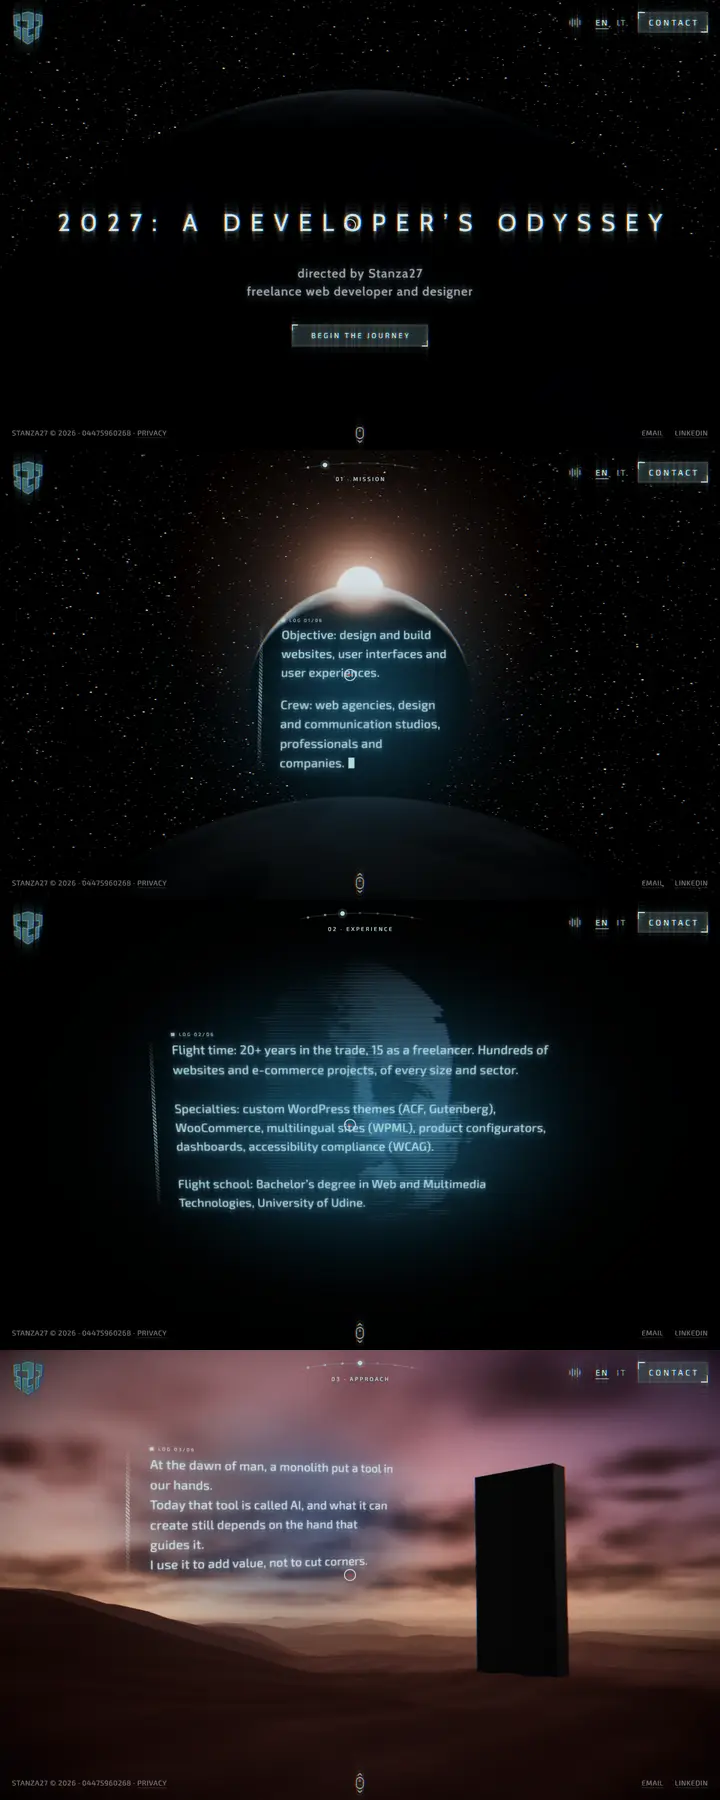
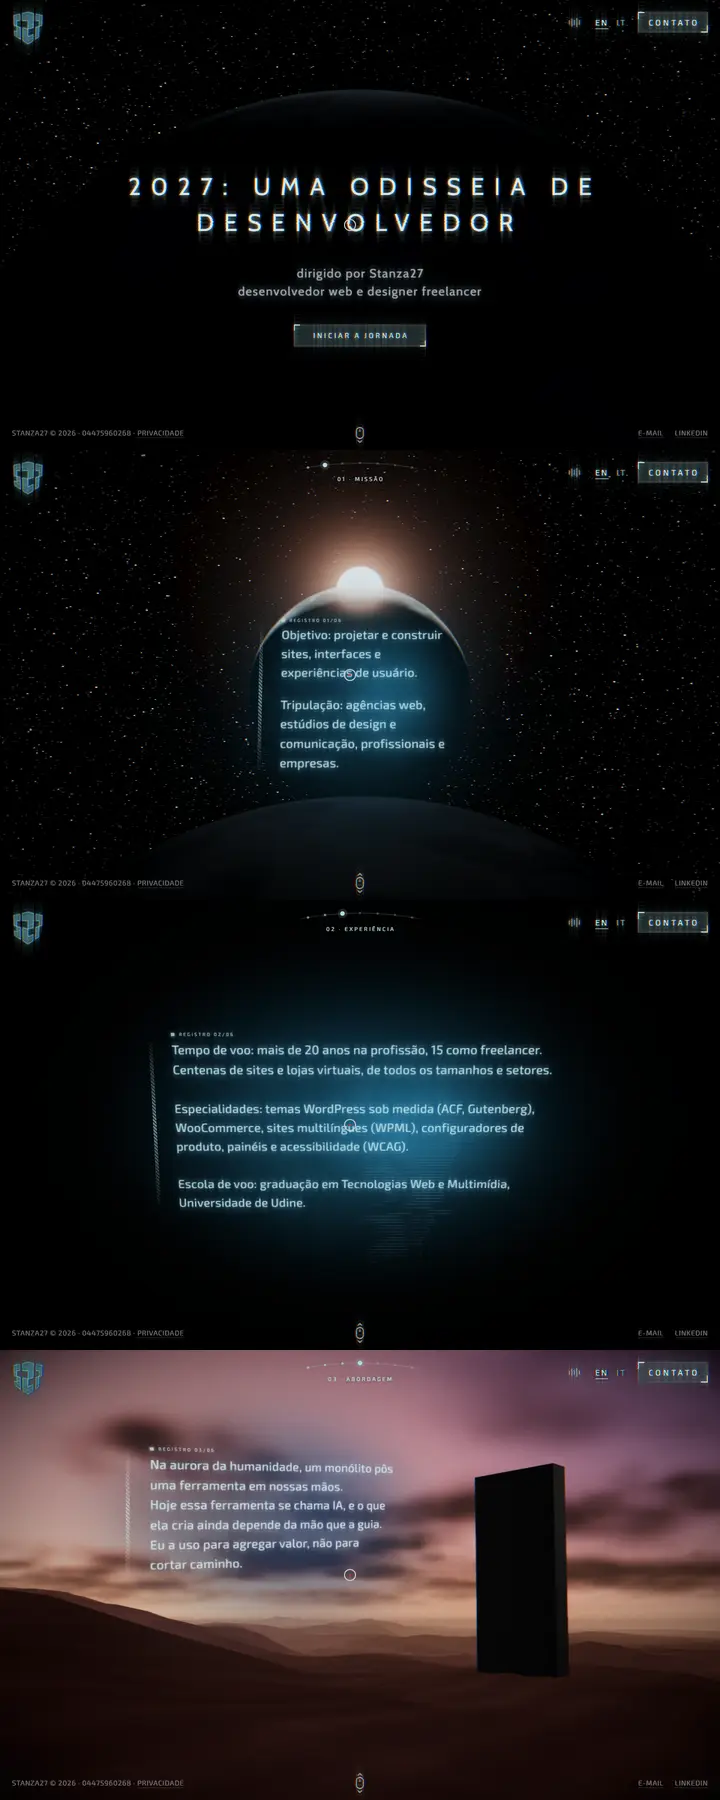
Telas do portfólio traduzidas para o português

diff --git a/portfolio/index.html b/portfolio/index.html
@@ -120,37 +120,37 @@
     <div class="grade">
       <a class="proj" data-rolar style="--alt:0px" href="https://mont-fort.com/" target="_blank" rel="noopener" data-r="entra">
         <div class="proj__barra"><i></i><i></i><i></i><span>mont-fort.com</span></div>
-        <div class="proj__tela"><img src="../assets/img/port-montfort.webp" alt="Página do Montfort Group" loading="lazy" width="720" height="1800"><span class="proj__ver">Ver projeto</span></div>
+        <div class="proj__tela"><img src="../assets/img/port-montfort.webp?v=pt" alt="Página do Montfort Group" loading="lazy" width="720" height="1800"><span class="proj__ver">Ver projeto</span></div>
         <div class="proj__info"><b>Montfort Group</b><small>Commodities e energia · Genebra</small></div>
       </a>
       <a class="proj" data-rolar style="--alt:0px" href="https://sereinwealth.com/" target="_blank" rel="noopener" data-r="entra" data-d="120">
         <div class="proj__barra"><i></i><i></i><i></i><span>sereinwealth.com</span></div>
-        <div class="proj__tela"><img src="../assets/img/port-serein.webp" alt="Página da Serein Wealth Advisors" loading="lazy" width="720" height="1800"><span class="proj__ver">Ver projeto</span></div>
+        <div class="proj__tela"><img src="../assets/img/port-serein.webp?v=pt" alt="Página da Serein Wealth Advisors" loading="lazy" width="720" height="1800"><span class="proj__ver">Ver projeto</span></div>
         <div class="proj__info"><b>Serein Wealth</b><small>Gestão de patrimônio</small></div>
       </a>
       <a class="proj" data-rolar style="--alt:0px" href="https://www.tibdigital.com/" target="_blank" rel="noopener" data-r="entra" data-d="240">
         <div class="proj__barra"><i></i><i></i><i></i><span>tibdigital.com</span></div>
-        <div class="proj__tela"><img src="../assets/img/port-tib.webp" alt="Página da TIB Digital" loading="lazy" width="720" height="1800"><span class="proj__ver">Ver projeto</span></div>
+        <div class="proj__tela"><img src="../assets/img/port-tib.webp?v=pt" alt="Página da TIB Digital" loading="lazy" width="720" height="1800"><span class="proj__ver">Ver projeto</span></div>
         <div class="proj__info"><b>TIB Digital</b><small>Estúdio de software com IA · Austin e Hong Kong</small></div>
       </a>
       <a class="proj" data-rolar style="--alt:0px" href="https://marylgonzalez.com/" target="_blank" rel="noopener" data-r="entra">
         <div class="proj__barra"><i></i><i></i><i></i><span>marylgonzalez.com</span></div>
-        <div class="proj__tela"><img src="../assets/img/port-maryl.webp" alt="Página de Maryl Gonzalez" loading="lazy" width="720" height="1800"><span class="proj__ver">Ver projeto</span></div>
+        <div class="proj__tela"><img src="../assets/img/port-maryl.webp?v=pt" alt="Página de Maryl Gonzalez" loading="lazy" width="720" height="1800"><span class="proj__ver">Ver projeto</span></div>
         <div class="proj__info"><b>Maryl Gonzalez</b><small>Design e tecnologia · Kansas City</small></div>
       </a>
       <a class="proj" data-rolar style="--alt:0px" href="https://www.zenarate.com/" target="_blank" rel="noopener" data-r="entra" data-d="120">
         <div class="proj__barra"><i></i><i></i><i></i><span>zenarate.com</span></div>
-        <div class="proj__tela"><img src="../assets/img/port-zenarate.webp" alt="Página da Zenarate" loading="lazy" width="720" height="1800"><span class="proj__ver">Ver projeto</span></div>
+        <div class="proj__tela"><img src="../assets/img/port-zenarate.webp?v=pt" alt="Página da Zenarate" loading="lazy" width="720" height="1800"><span class="proj__ver">Ver projeto</span></div>
         <div class="proj__info"><b>Zenarate</b><small>Plataforma de atendimento com IA</small></div>
       </a>
       <a class="proj" data-rolar style="--alt:0px" href="https://charmling.app/" target="_blank" rel="noopener" data-r="entra" data-d="240">
         <div class="proj__barra"><i></i><i></i><i></i><span>charmling.app</span></div>
-        <div class="proj__tela"><img src="../assets/img/port-charmling.webp" alt="Página do aplicativo Charmling" loading="lazy" width="720" height="1800"><span class="proj__ver">Ver projeto</span></div>
+        <div class="proj__tela"><img src="../assets/img/port-charmling.webp?v=pt" alt="Página do aplicativo Charmling" loading="lazy" width="720" height="1800"><span class="proj__ver">Ver projeto</span></div>
         <div class="proj__info"><b>Charmling</b><small>Aplicativo para Mac</small></div>
       </a>
       <a class="proj" data-rolar style="--alt:0px" href="https://stanza27.com/" target="_blank" rel="noopener" data-r="entra">
         <div class="proj__barra"><i></i><i></i><i></i><span>stanza27.com</span></div>
-        <div class="proj__tela"><img src="../assets/img/port-stanza.webp" alt="Página da Stanza27" loading="lazy" width="720" height="1800"><span class="proj__ver">Ver projeto</span></div>
+        <div class="proj__tela"><img src="../assets/img/port-stanza.webp?v=pt" alt="Página da Stanza27" loading="lazy" width="720" height="1800"><span class="proj__ver">Ver projeto</span></div>
         <div class="proj__info"><b>Stanza27</b><small>Desenvolvimento web · Verona</small></div>
       </a>
       <a class="proj" data-rolar style="--alt:0px" href="https://kevencatao.github.io/tezorine-previa/" target="_blank" rel="noopener" data-r="entra" data-d="120">

diff --git a/index.html b/index.html
@@ -162,13 +162,13 @@
 <section class="vitrine" aria-label="Alguns projetos">
   <div class="vitrine__mask" data-r="sobe">
     <div class="trilho" data-dup>
-      <a href="portfolio/"><img src="assets/img/port-montfort.webp" alt="Site do Montfort Group" loading="lazy" width="720" height="1800"></a>
-      <a href="portfolio/"><img src="assets/img/port-serein.webp" alt="Site da Serein Wealth Advisors" loading="lazy" width="720" height="1800"></a>
-      <a href="portfolio/"><img src="assets/img/port-tib.webp" alt="Site da TIB Digital" loading="lazy" width="720" height="1800"></a>
-      <a href="portfolio/"><img src="assets/img/port-maryl.webp" alt="Site de Maryl Gonzalez" loading="lazy" width="720" height="1800"></a>
-      <a href="portfolio/"><img src="assets/img/port-zenarate.webp" alt="Site da Zenarate" loading="lazy" width="720" height="1800"></a>
-      <a href="portfolio/"><img src="assets/img/port-charmling.webp" alt="Site do aplicativo Charmling" loading="lazy" width="720" height="1800"></a>
-      <a href="portfolio/"><img src="assets/img/port-stanza.webp" alt="Site da Stanza27" loading="lazy" width="720" height="1800"></a>
+      <a href="portfolio/"><img src="assets/img/port-montfort.webp?v=pt" alt="Site do Montfort Group" loading="lazy" width="720" height="1800"></a>
+      <a href="portfolio/"><img src="assets/img/port-serein.webp?v=pt" alt="Site da Serein Wealth Advisors" loading="lazy" width="720" height="1800"></a>
+      <a href="portfolio/"><img src="assets/img/port-tib.webp?v=pt" alt="Site da TIB Digital" loading="lazy" width="720" height="1800"></a>
+      <a href="portfolio/"><img src="assets/img/port-maryl.webp?v=pt" alt="Site de Maryl Gonzalez" loading="lazy" width="720" height="1800"></a>
+      <a href="portfolio/"><img src="assets/img/port-zenarate.webp?v=pt" alt="Site da Zenarate" loading="lazy" width="720" height="1800"></a>
+      <a href="portfolio/"><img src="assets/img/port-charmling.webp?v=pt" alt="Site do aplicativo Charmling" loading="lazy" width="720" height="1800"></a>
+      <a href="portfolio/"><img src="assets/img/port-stanza.webp?v=pt" alt="Site da Stanza27" loading="lazy" width="720" height="1800"></a>
       <a href="portfolio/"><img src="assets/img/port-tezorine.webp" alt="Site da Barbearia Tezorine" loading="lazy" width="720" height="1350"></a>
       <a href="portfolio/"><img src="assets/img/port-prumo.webp" alt="Site da Prumo Barbearia" loading="lazy" width="720" height="1350"></a>
       <a href="portfolio/"><img src="assets/img/port-nails2you.webp" alt="Site da Nails2You Moema" loading="lazy" width="720" height="450"></a>
